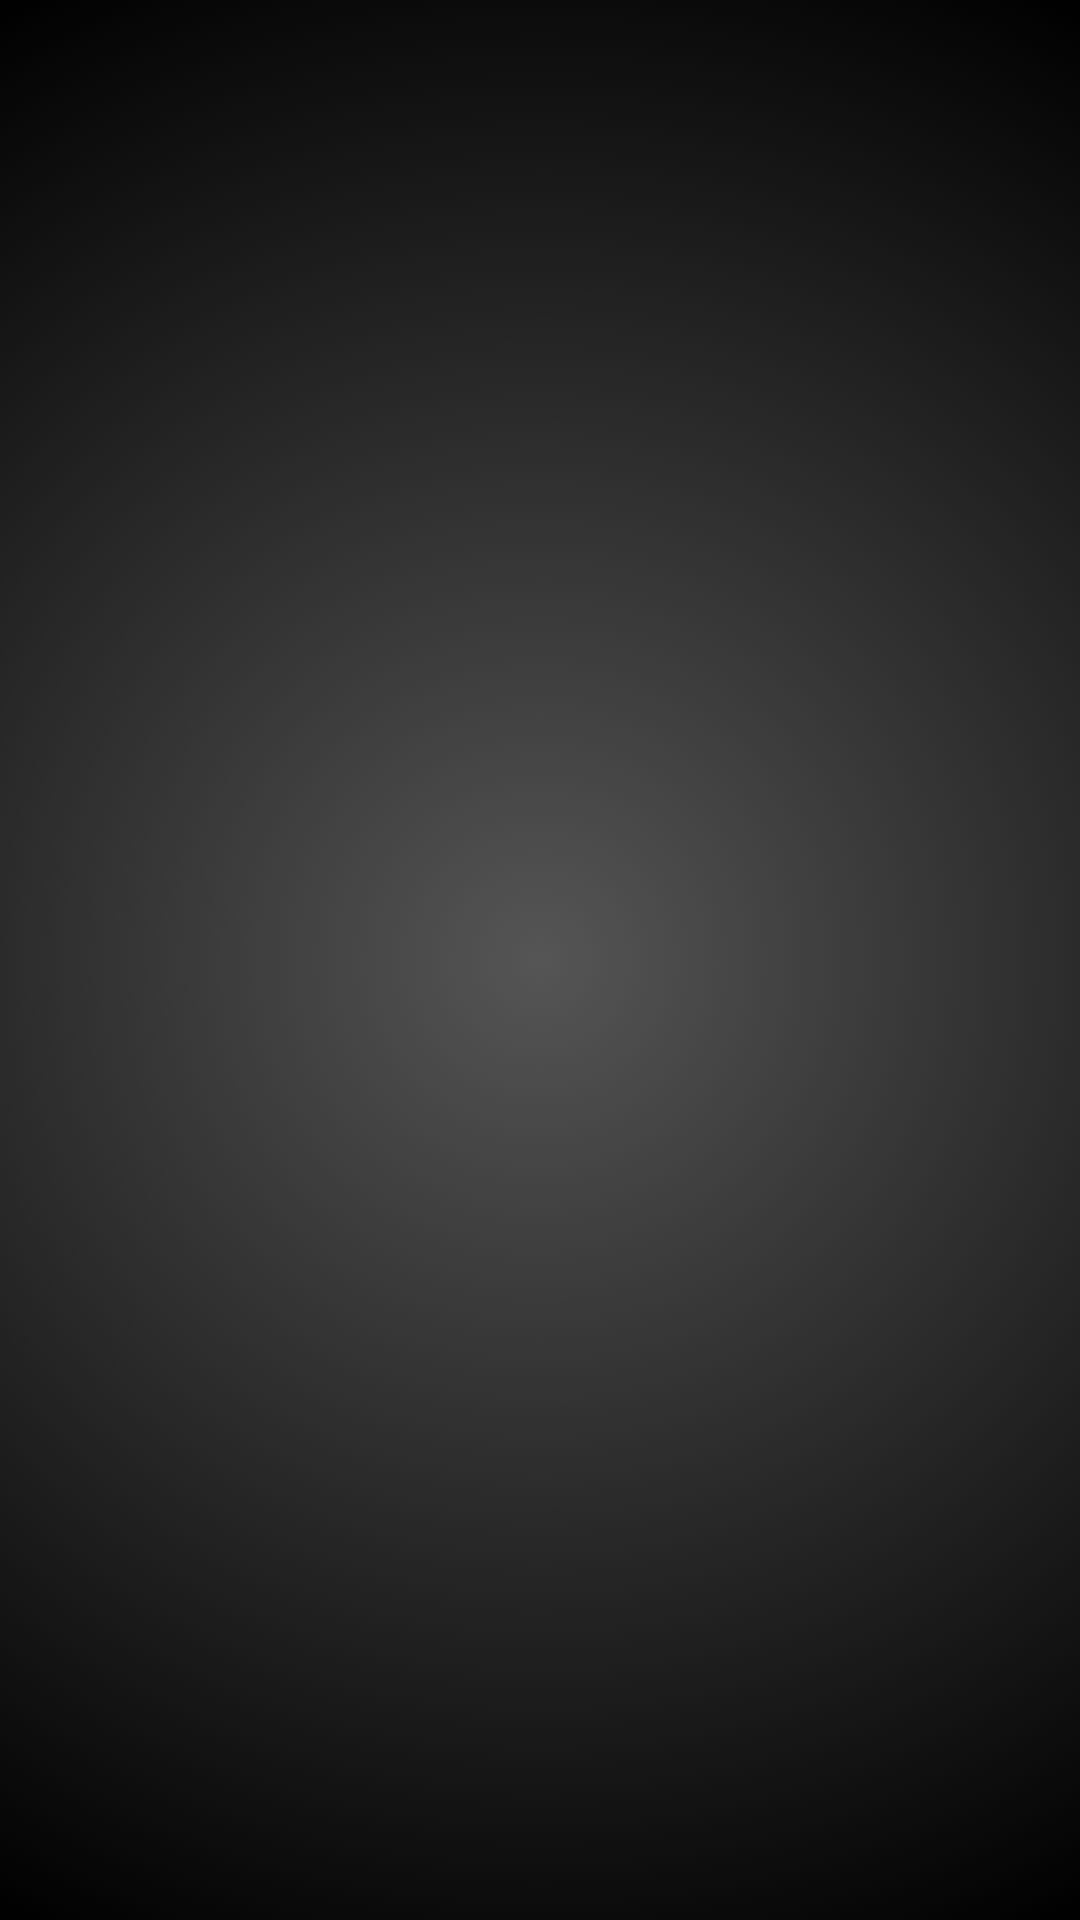
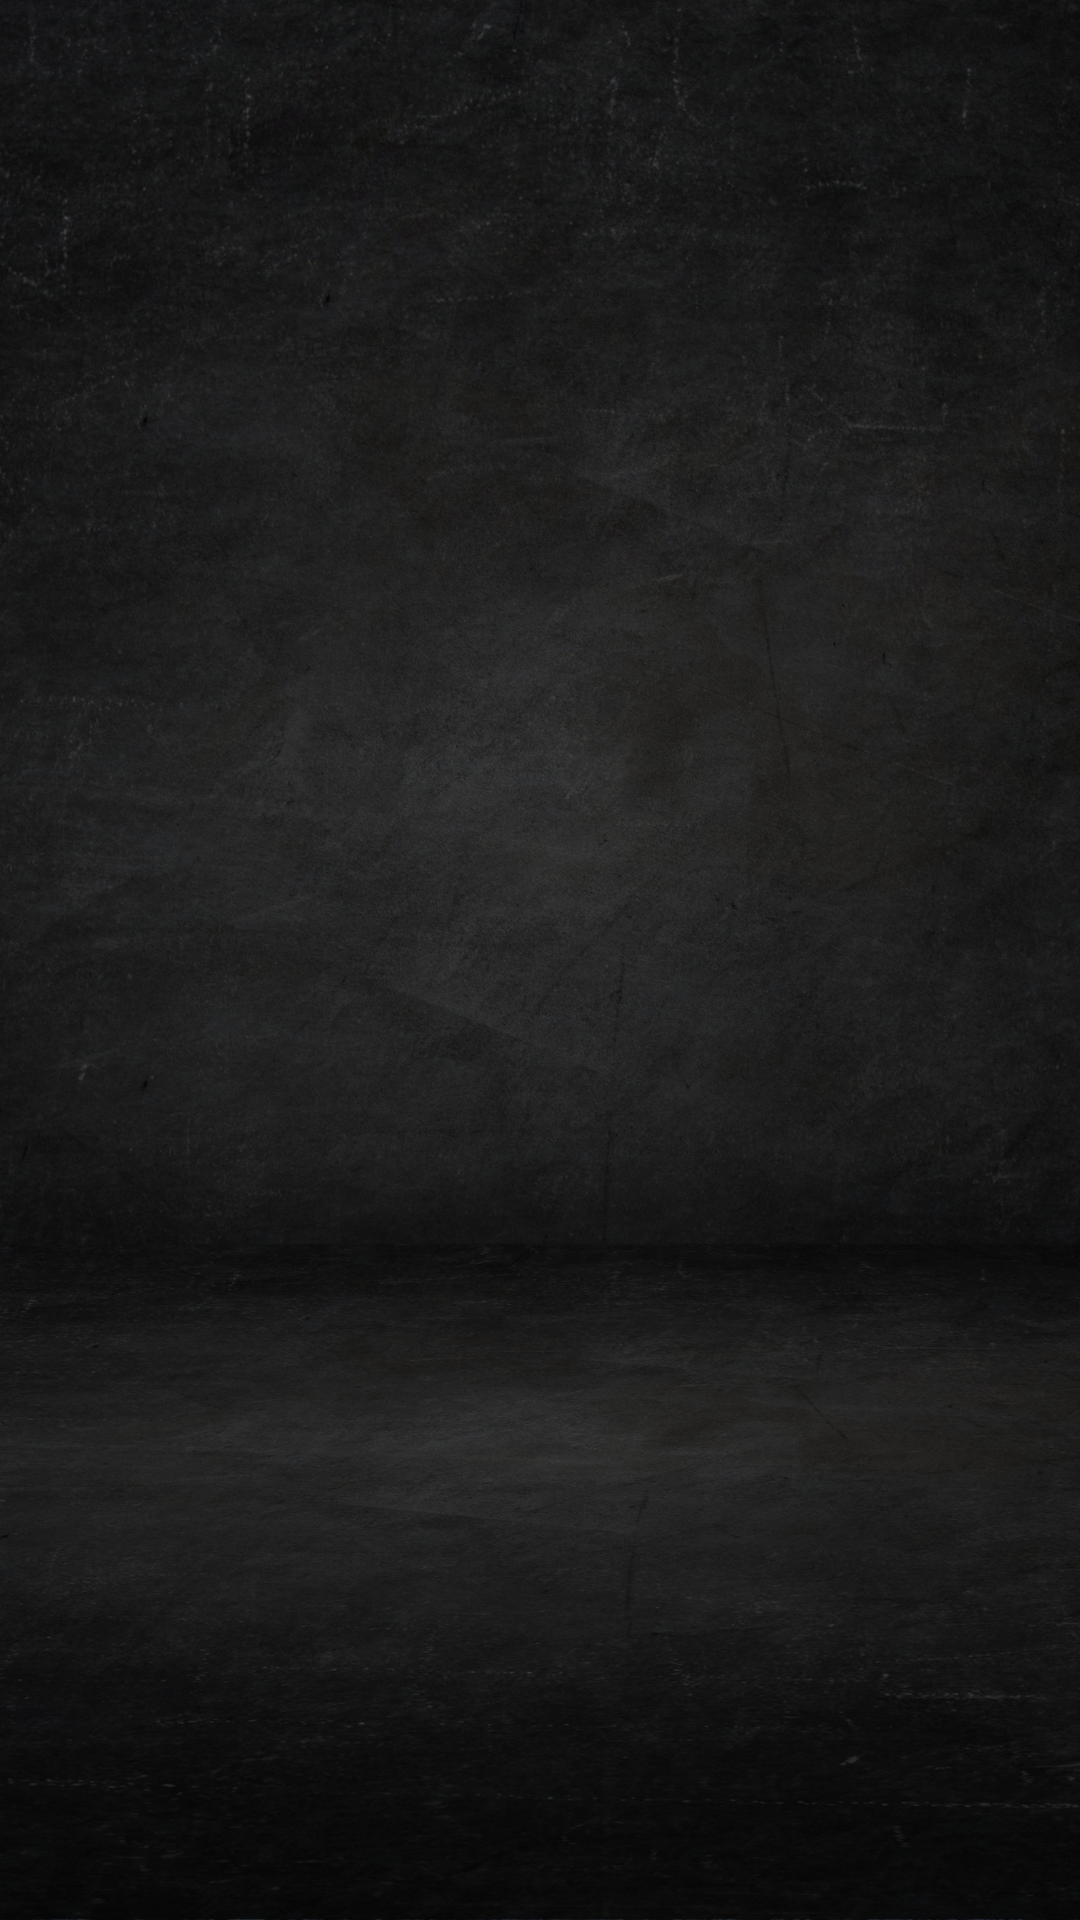
Changed menu background and added navigation arrows on slider

diff --git a/src/MenuPage.jsx b/src/MenuPage.jsx
@@ -1,13 +1,15 @@
 import React from 'react'
-import continental from "./assets/images/continental.png"
-import salad from "./assets/images/salad.png"
-import juice from "./assets/images/juice.png"
-import coke from "./assets/images/coke.png"
-import cocktail from "./assets/images/cocktail.png"
+
 import vodka from "./assets/images/vodka.png"
+import coke from "./assets/images/vodka.png"
+import salad from "./assets/images/salad.png"
+import cocktail from "./assets/images/cocktail.png"
+import continental from "./assets/images/continental.png"
 import menubg from "./assets/images/menubg.png"
 import insta from "./assets/icons/instawhite.png"
 import wa from "./assets/icons/wawhite.png"
+import { foodOne } from './data'
+import { drinks } from './data'
 import Slider from "react-slick";
 import "slick-carousel/slick/slick.css";
 import "slick-carousel/slick/slick-theme.css";
@@ -15,44 +17,11 @@ import "slick-carousel/slick/slick.css";
 import "slick-carousel/slick/slick-theme.css";
 
 
-const foodOne = [
-    {
-        id: 1,
-        name: "Fried Rice with Grilled Chicken",
-        description: "Coleslaw, spicy black and green pepper sauce ",
-        image: continental,
-        waittime: "30",
-        price:"150"
-    },
-    {
-        id: 2,
-        name: "Fried Rice with Salmons",
-        description: "Coleslaw, spicy black and green pepper sauce ",
-        image: salad,
-        waittime: "35",
-        price:"170"
-    },
-]
-const drinks=[
-    {
-        id:1,
-        name:"Mojito",
-        description:"Vodka, gin and cranberry",
-        image:cocktail,
-        price:"50"
-    },
-    {
-        id:2,
-        name:"Island",
-        description:"Vodka, gin and cranberry",
-        image:juice,
-        price:"70"
-    }
-]
+
 const MenuPage = () => {
     const foodSliderSettings = {
         dots: false,
-        arrows: false,
+        arrows: true,
         infinite: true,
         speed: 500,
         slidesToShow: 1,
@@ -62,7 +31,7 @@ const MenuPage = () => {
         touchMove:true
     }
     return (
-        <section className='h-auto w-full py-4 px-4 flex flex-col bg-[#111111]' >
+        <section className='h-auto w-full py-4 px-8 flex flex-col ' style={{backgroundImage:`url(${menubg})`}} >
             {/* restaurant name */}
             <div className='text-center pb-2'>
                 <h1 className='font-bold text-lg text-white'><span className='text-[#E6B200] '>SNACK</span>WORLD</h1>
@@ -77,36 +46,38 @@ const MenuPage = () => {
             </div>
 
             {/* categories */}
-            <div className='flex h-[10%] justify-between px-16 items-center mb-4'>
-                <div>
+            <div className='flex h-[10%] w-[90%] justify-between items-center mb-4 font-bold text-[#E6B200] gap-4 ml-auto mr-auto'>
+                <div className='w-full flex flex-col '>
                     <img src={continental} alt="" className='h-14 w-14 object-cover bg-transparent' />
+                    <p>LOCAL</p>
                 </div>
 
-                <div>
-                    <img src={continental} alt="" className='h-14 w-14 object-cover bg-transparent' />
+                <div className='w-full flex flex-col'>
+                    <img src={continental} alt="" className='h-14 w-14 object-cover bg-transparent mr-auto ml-auto' />
+                    <p>CONTINENTAL</p>
                 </div>
 
-                <div>
+                <div className='w-full flex flex-col'>
                     <img src={salad} alt="" className='h-14 w-14 object-cover bg-transparent ' />
-                    <div className='bg-[#666666] '></div>
+                    <p>VEGAN</p>
                 </div>
             </div>
 
             {/* food carousel */}
-            <div className='w-full h-[40%]'>
+            <div className='w-full h-[60vh]'>
                 <Slider {...foodSliderSettings}>
                     {
                         foodOne.map((meal) => (
                             <div key={meal.id} className='h-full relative '>
                                 {/* image and description container*/}
-                                <div className='flex justify-between w-full ml-auto mr-auto h-full'>
+                                <div className='flex flex-col w-full h-full '>
                                     {/* image */}
                                     <div className='relative w-full h-full'>
-                                        <img src={meal.image} alt="" className='object-cover h-60 w-full' />
+                                        <img src={meal.image} alt="" className='object-cover h-full w-[80%] ml-auto mr-auto' />
                                     </div>
 
                                     {/* description */}
-                                    <div className=' flex items-center justify-center h-full w-[50%] bg-white z-10 '>
+                                    <div className=' flex items-center justify-center h-32 w-[70%] ml-auto mr-auto bg-white z-10 '>
                                         <div className="p-4">
                                             <h2 className="text-xl font-bold">{meal.name}</h2>
                                             <p className="text-sm text-gray-600">{meal.description}</p>
@@ -122,9 +93,9 @@ const MenuPage = () => {
                 </Slider>
             </div>
             {/* nav buttons */}
-            <div className='border h-[7%] mb-8'>
+            {/* <div className='border h-[7%] mb-4'>
 
-            </div>
+            </div> */}
 
 {/* DRINKS */}
             {/* drinks head text*/}
@@ -135,7 +106,7 @@ const MenuPage = () => {
             </div>
 
             {/* categories */}
-            <div className='flex h-[10%] justify-between px-16 items-center mb-4'>
+            <div className='flex h-[10%] justify-between px-16 items-center mb-4 '>
                 <div>
                     <img src={cocktail} alt="" className='w-8 h-full object-cover bg-transparent' />
                 </div>
@@ -151,7 +122,7 @@ const MenuPage = () => {
             </div>
 
             {/* drink carousel */}
-            <div className='w-full h-[40%]'>
+            <div className='w-full h-[25%] mb-4'>
                 <Slider {...foodSliderSettings}>
                     {
                         drinks.map((drink) => (
@@ -159,7 +130,7 @@ const MenuPage = () => {
                                 {/* image and description container*/}
                                 <div className='flex justify-between w-full ml-auto mr-auto h-full '>
                                       {/* description */}
-                                      <div className=' flex items-center justify-center h-full w-[50%] bg-white z-10 mt-16'>
+                                      <div className=' flex items-center justify-center h-full w-[50%] bg-white z-10 mt-16 ml-10'>
                                         <div className="p-4">
                                             <h2 className="text-xl font-bold">{drink.name}</h2>
                                             <p className="text-sm text-gray-600">{drink.description}</p>
@@ -167,7 +138,7 @@ const MenuPage = () => {
                                         </div>
                                     </div>
                                     {/* image */}
-                                    <div className='relative w-full h-full pl-8'>
+                                    <div className='relative w-full h-full '>
                                         <img src={drink.image} alt="" className='object-cover h-60 ' />
                                     </div>
 
@@ -181,9 +152,9 @@ const MenuPage = () => {
                 </Slider>
             </div>
             {/* nav buttons */}
-            <div className='border h-[7%] mb-8'>
+            {/* <div className='border h-[7%] mb-4'>
 
-            </div>
+            </div> */}
 
             {/* footer */}
             {/* social media links */}

diff --git a/src/data.js b/src/data.js
@@ -1,0 +1,39 @@
+import continental from "./assets/images/continental.png"
+import salad from "./assets/images/salad.png"
+import juice from "./assets/images/juice.png"
+import cocktail from "./assets/images/cocktail.png"
+
+export const foodOne = [
+    {
+        id: 1,
+        name: "Fried Rice with Grilled Chicken",
+        description: "Coleslaw, spicy black and green pepper sauce ",
+        image: continental,
+        waittime: "30",
+        price:"150"
+    },
+    {
+        id: 2,
+        name: "Fried Rice with Salmons",
+        description: "Coleslaw, spicy black and green pepper sauce ",
+        image: salad,
+        waittime: "35",
+        price:"170"
+    },
+]
+export const drinks=[
+    {
+        id:1,
+        name:"Mojito",
+        description:"Vodka, gin and cranberry",
+        image:cocktail,
+        price:"50"
+    },
+    {
+        id:2,
+        name:"Island",
+        description:"Vodka, gin and cranberry",
+        image:juice,
+        price:"70"
+    }
+]
